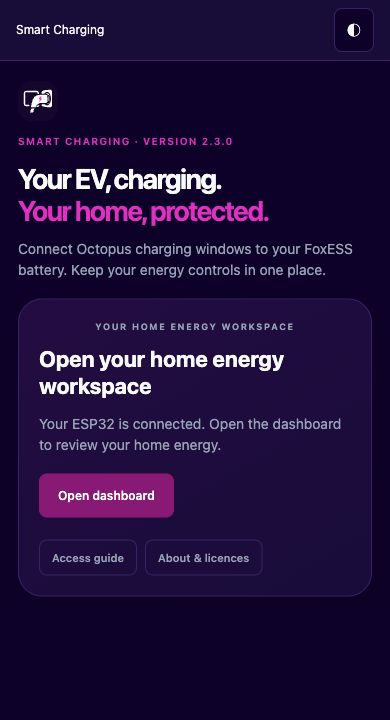
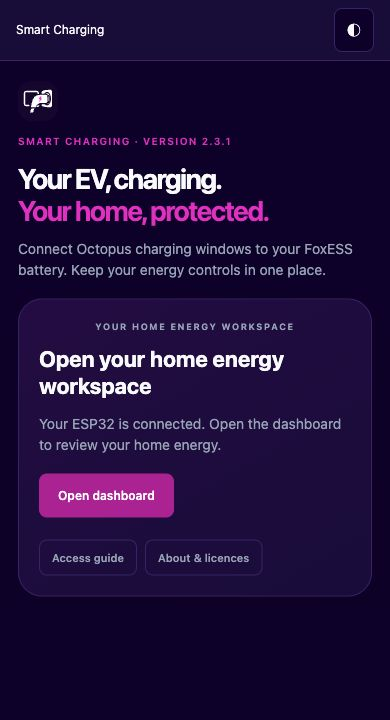
Record final guide verification and refresh version screenshots

Changed region(s): [[0.0923, 0.6417, 0.4615, 0.7333]]

diff --git a/docs/screenshots/README.md b/docs/screenshots/README.md
@@ -1,6 +1,6 @@
 # Interface screenshots
 
-Updated on 6 November 2026 for the 2.3.0 Preview.
+Updated on 6 November 2026 for the 2.3.1 Preview.
 
 All published interface images use dark appearance and isolated demonstration services.
 No screenshot contains a real account, device identifier, API key, password, or remote key.
